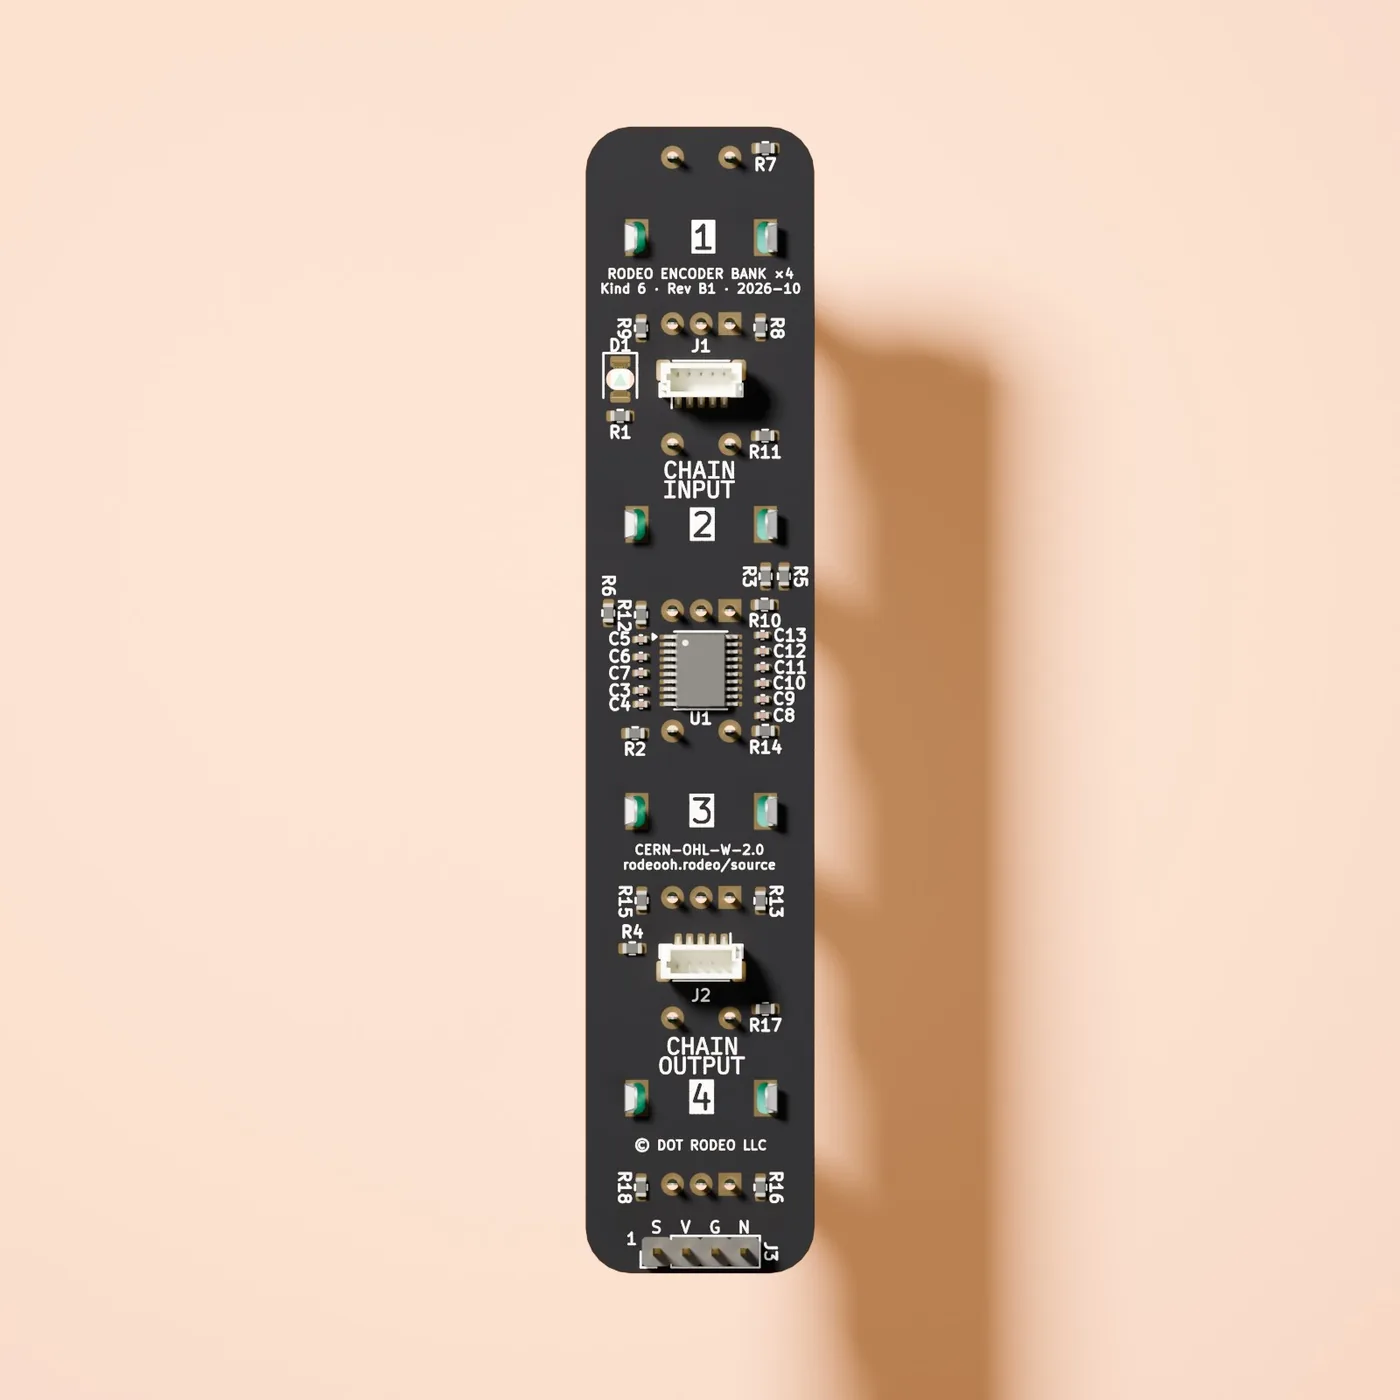
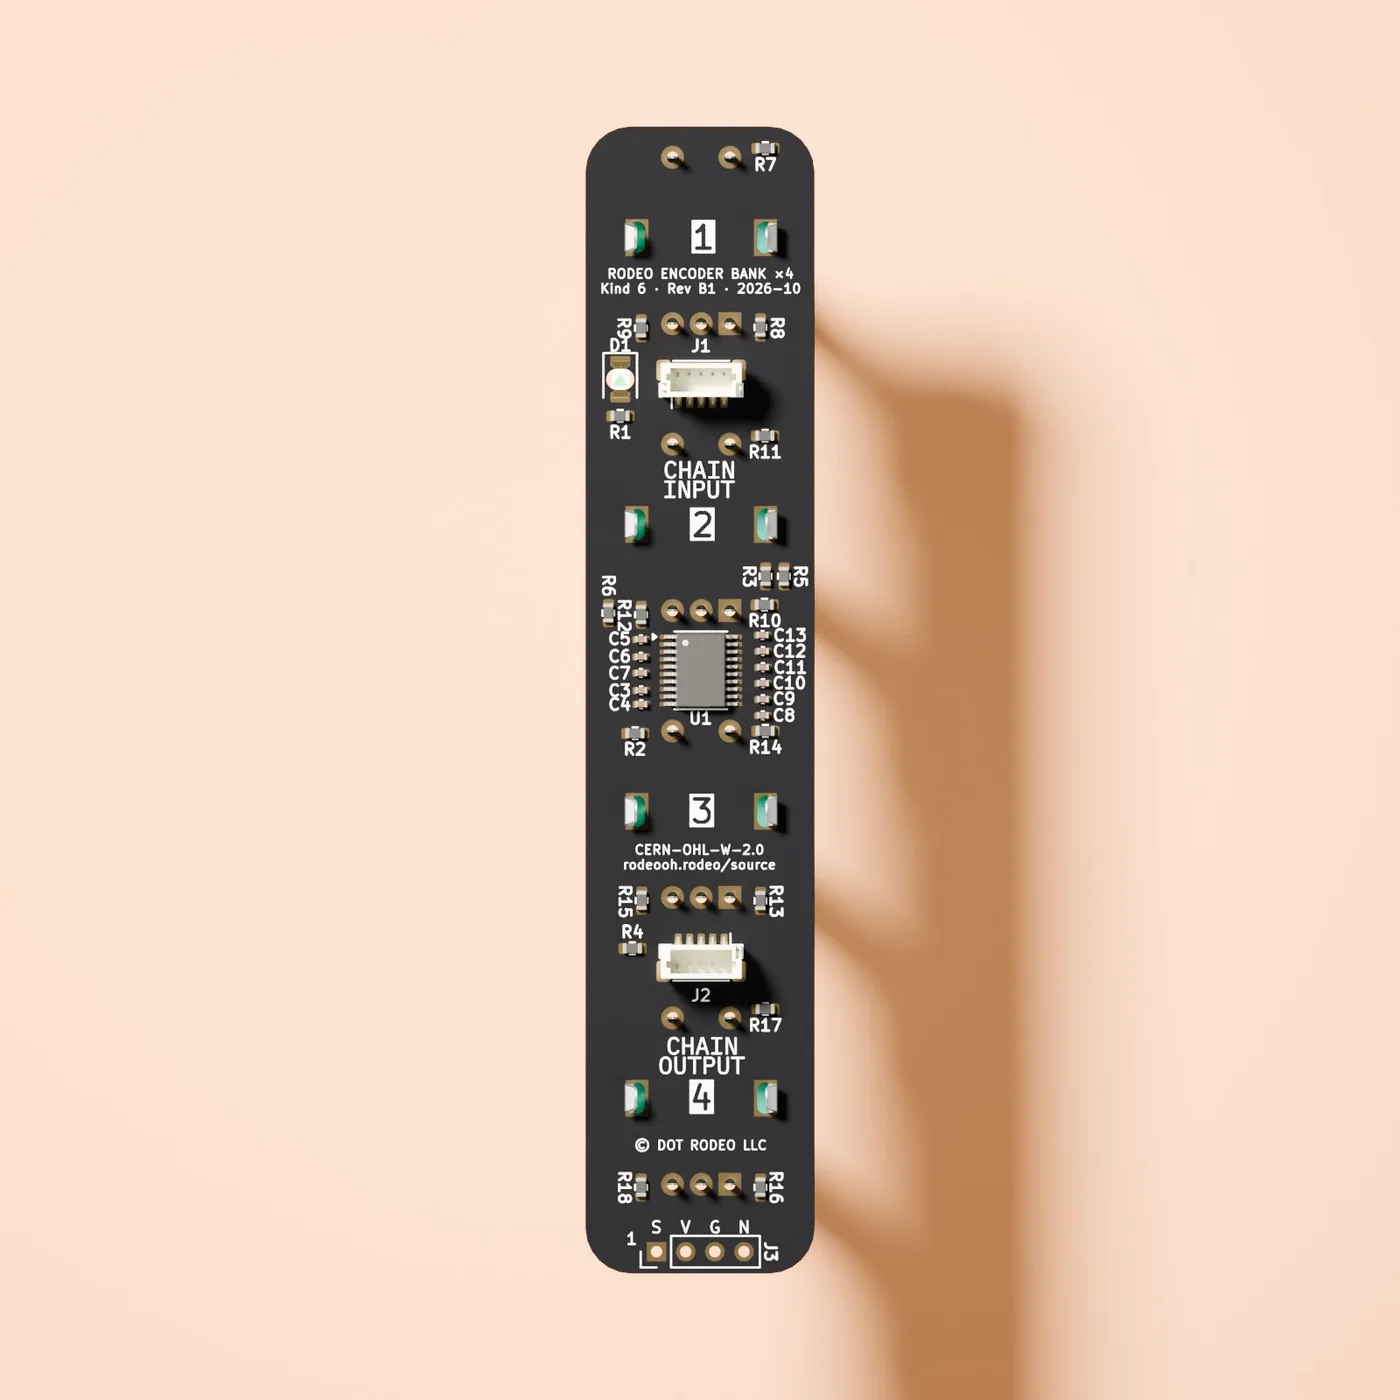
tools/render: leave Do Not Populate parts out of the renders
kicad-cli renders DNP parts as fitted unless told --no-dnp, so every satellite
showed its programming header (J3, or J5 on the button bank), which is never
fitted. Re-rendered the five boards that have one, and the site's WebP copies of
the two banks it shows. The motherboard's Seed (A1) is off the BOM but not DNP,
so it still renders, as it should.

Changed region(s): [[0.5529, 0.215, 0.7679, 1.0], [0.4607, 0.86, 0.5529, 0.9214]]

diff --git a/tools/render/render.py b/tools/render/render.py
@@ -73,7 +73,9 @@ def pcb_in(d):
 
 
 def export_glb(pcb, out):
-    subprocess.run([KICAD_CLI, 'pcb', 'export', 'glb', '--force', '--subst-models',
+    # --no-dnp: leave out parts marked Do Not Populate (the satellites' programming
+    # headers), which kicad-cli otherwise renders as fitted.
+    subprocess.run([KICAD_CLI, 'pcb', 'export', 'glb', '--force', '--subst-models', '--no-dnp',
                     '--include-tracks', '--include-pads', '--include-zones',
                     '--include-silkscreen', '--include-soldermask', '-o', out, pcb],
                    check=True, stdout=subprocess.DEVNULL)
